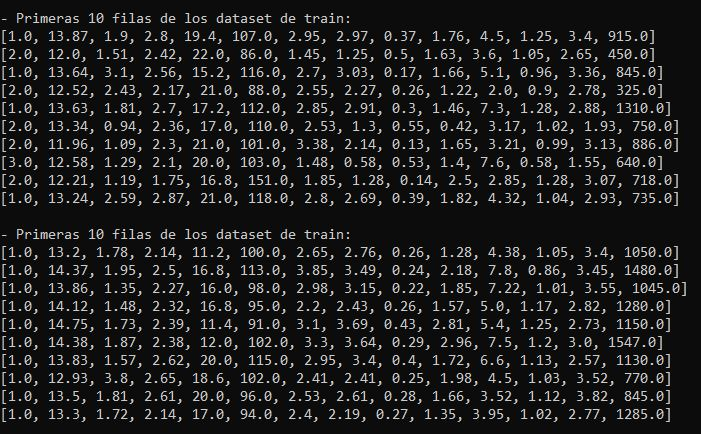
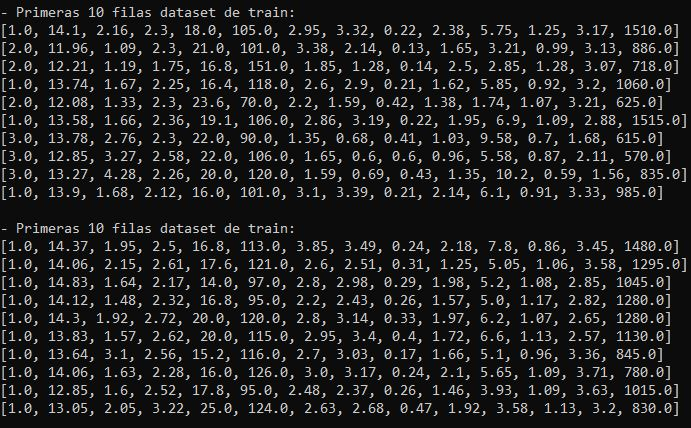
Mejoras PD2 UT2

Changed region(s): [[0.0, 0.0, 1.0, 0.486], [0.0, 0.5164, 1.0, 0.972]]

diff --git a/ut2/PDs/UT2-PD3/script.py b/ut2/PDs/UT2-PD3/script.py
@@ -2,6 +2,9 @@ from csv import reader
 from math import sqrt
 from random import randrange
 import pandas as pd
+import copy
+
+columns = ['Alcohol','Malic acid','Ash','Alcalinity of ash','Magnesium','Total phenols','Flavanoids','Nonflavanoid phenols','Proanthocyanins','Color intensity','Hue','OD280/OD315 of diluted wines','Proline']
 
 def load_csv(filename):
     dataset = list()
@@ -44,8 +47,8 @@ def column_stdevs(dataset, means):
 def normalize_dataset(dataset, minmax):
     for row in dataset:
         for i in range(len(row)):
-            row[i] = (row[i] - minmax[i][0])
-            (minmax[i][1] - minmax[i][0])
+            row[i] = (row[i] - minmax[i][0]) / (minmax[i][1] - minmax[i][0])
+
 
 def standardize_dataset(dataset, means, stdevs):
     for row in dataset:
@@ -61,21 +64,38 @@ def train_test_split(dataset, split=0.60):
         train.append(dataset_copy.pop(index))
     return train, dataset_copy
 
-
 input_file = "wine.csv"
 dataset = load_csv(input_file)
+print("\n- Primeras 10 filas:")
 for i in range(10):
     print(dataset[i])
-for i in range(14):
-    str_column_to_float(dataset,i)
-minmax = dataset_minmax(dataset)
-means = column_means(dataset)
-stdevs = column_stdevs(dataset, means)
-print(minmax)
-print(means)
-print(stdevs)
-normalized_dataset = dataset.copy()
+strToFloatDataset = copy.deepcopy(dataset)
+for i in range(len(columns)+1):
+    str_column_to_float(strToFloatDataset,i)
+print("\n- Primeras 10 filas dataset con floats:")
+for i in range(10):
+    print(strToFloatDataset[i])
+minmax = dataset_minmax(strToFloatDataset)
+means = column_means(strToFloatDataset)
+stdevs = column_stdevs(strToFloatDataset, means)
+print("\n- Estadísticas: ")
+for i in range(len(columns)):
+    print("*"+columns[i] + ": min " + str(minmax[i][0]) + ",  max " + str(minmax[i][1]) + ", media " + str(means[i]) + ", desviación estándar " + str(stdevs[i]))
+normalized_dataset = copy.deepcopy(strToFloatDataset)
+standarized_dataset = copy.deepcopy(strToFloatDataset)
+train_test_split_dataset = copy.deepcopy(strToFloatDataset)
 normalize_dataset(normalized_dataset, minmax)
-standarized_dataset = dataset.copy()
 standardize_dataset(standarized_dataset, means, stdevs)
-train_test_split(dataset)
+train, test = train_test_split(train_test_split_dataset)
+print("\n- Primeras 10 filas dataset estandarizado:")
+for i in range(10):
+    print(standarized_dataset[i])
+print("\n- Primeras 10 filas dataset normalizado:")
+for i in range(10):
+    print(normalized_dataset[i])
+print("\n- Primeras 10 filas dataset de train:")
+for i in range(10):
+    print(train[i])
+print("\n- Primeras 10 filas dataset de train:")
+for i in range(10):    
+    print(test[i])
